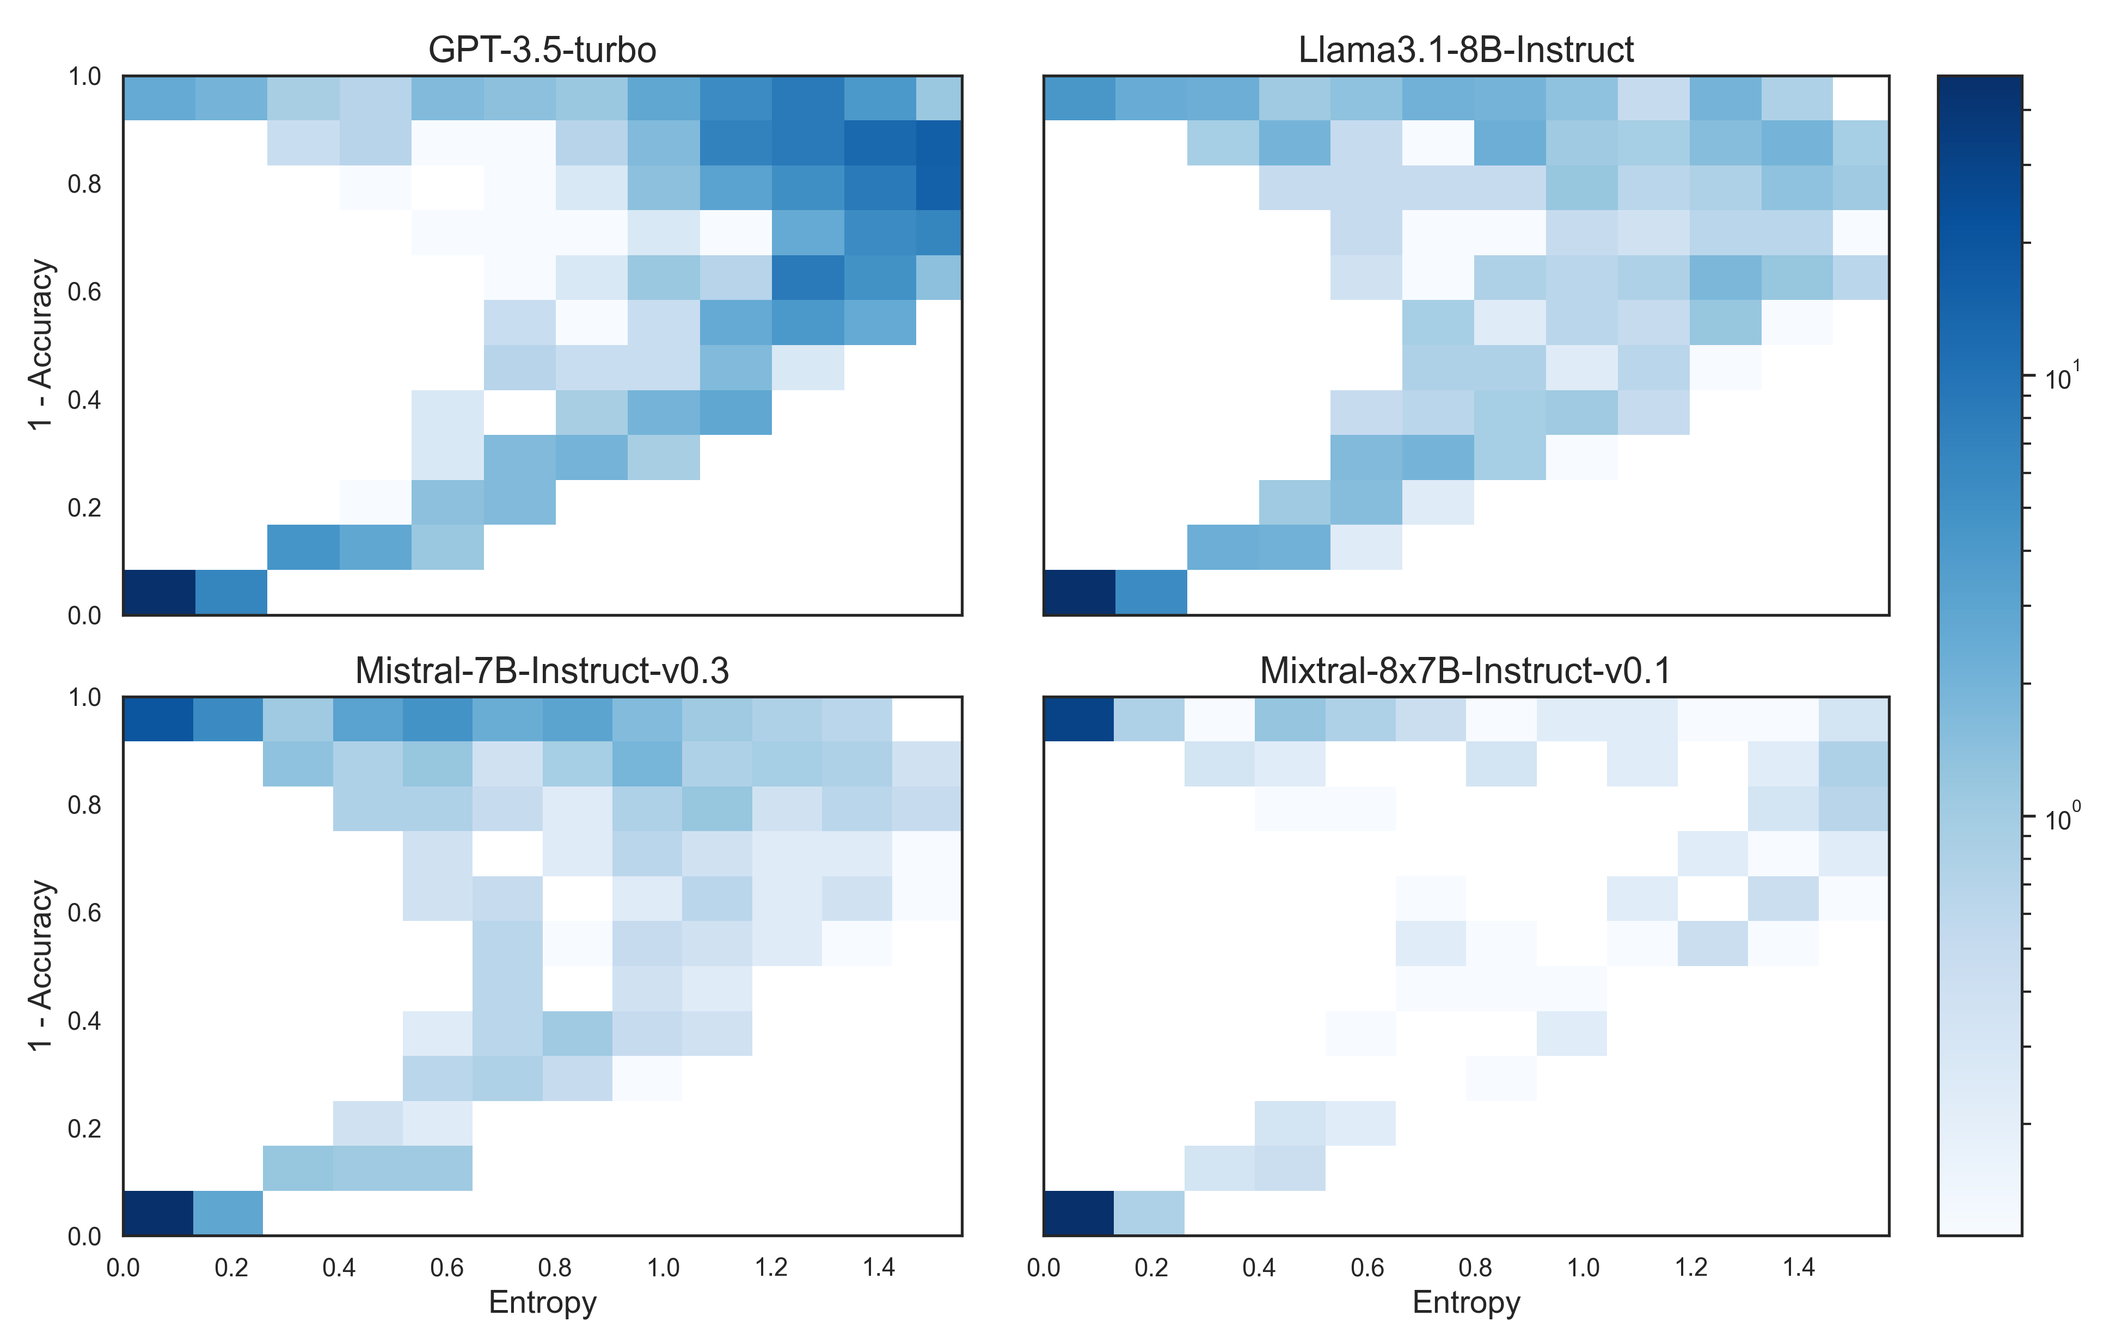
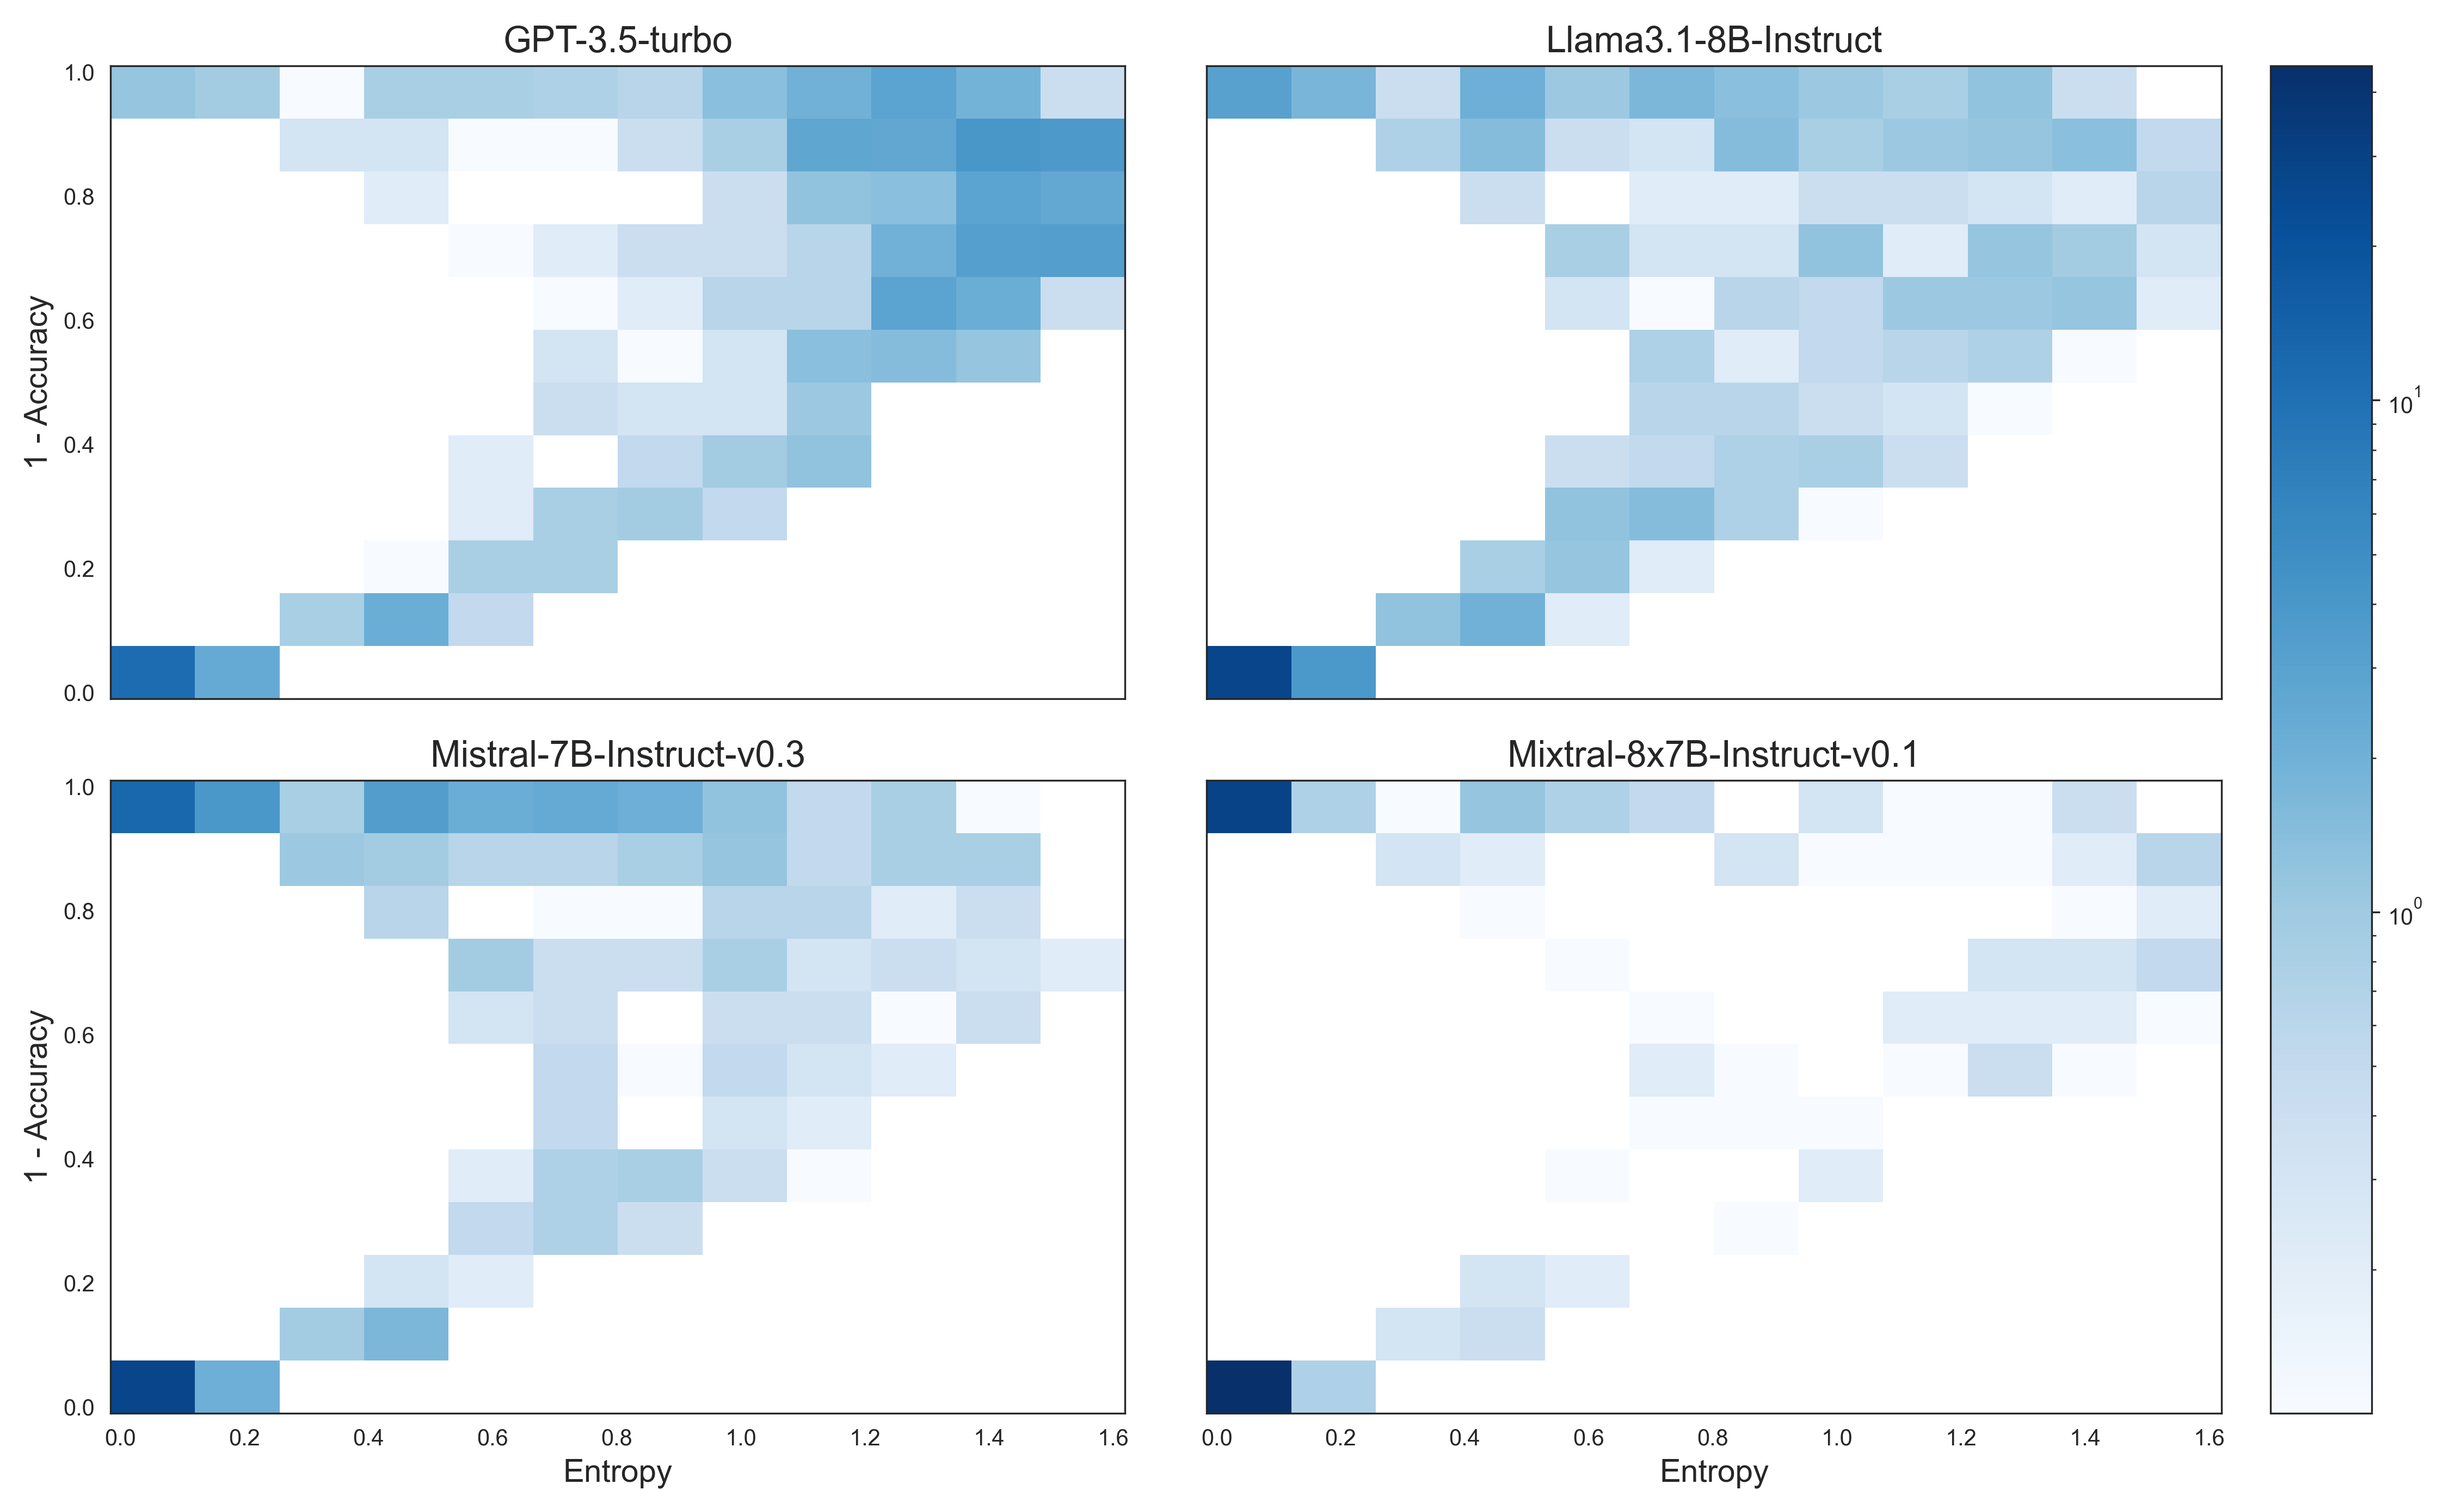
add by category plot

diff --git a/README.md b/README.md
@@ -148,7 +148,7 @@ for i, (df, title, x_label, y_label) in enumerate(zip(dataframes, titles, x_labe
     axs[i].set_ylabel(y_label, fontsize=14)
 
 plt.tight_layout()
-plt.savefig('hist__no_grid.png', dpi=300)
+plt.savefig('hist_no_grid.png', dpi=300)
 plt.show()
 
 ```
@@ -160,65 +160,206 @@ from mpl_toolkits.axes_grid1 import ImageGrid
 import seaborn as sns
 import matplotlib.pyplot as plt
 from matplotlib.colors import LogNorm
+import numpy as np
 
-# Sample datasets and titles for demonstration
 datasets = [df_gpt, df_llama, df_mistral, df_mixtral]
 titles = [
-    'GPT-3.5-turbo', 
-    'Llama3.1-8B-Instruct', 
-    'Mistral-7B-Instruct-v0.3', 
-    'Mixtral-8x7B-Instruct-v0.1'
+   'GPT-3.5-turbo', 
+   'Llama3.1-8B-Instruct', 
+   'Mistral-7B-Instruct-v0.3', 
+   'Mixtral-8x7B-Instruct-v0.1'
 ]
 
 sns.set_style('white')
 
-fig = plt.figure(figsize=(15, 15))
+# calculating global min/max across all datasets to have the same xscale bins
+global_x_min = min(df.Entropy.min() for df in datasets)
+global_x_max = max(df.Entropy.max() for df in datasets)
+global_y_min = min(df['1 - Accuracy'].min() for df in datasets)
+global_y_max = max(df['1 - Accuracy'].max() for df in datasets)
+
+
+x_padding = (global_x_max - global_x_min) * 0.01
+y_padding = (global_y_max - global_y_min) * 0.01
+
+# global bin edges
+xedges = np.linspace(global_x_min - x_padding, global_x_max + x_padding, 13)
+yedges = np.linspace(global_y_min - y_padding, global_y_max + y_padding, 13)
+
+
+global_hist_data = []
+for df in datasets:
+   h, _, _ = np.histogram2d(df.Entropy, df['1 - Accuracy'], bins=[xedges, yedges], density=True)
+   global_hist_data.append(h)
+
+global_hist_data = np.concatenate(global_hist_data)
+
+# for uniform color scaling
+vmin = np.nanmin(global_hist_data[global_hist_data > 0])
+vmax = np.nanmax(global_hist_data)
+
+fig = plt.figure(figsize=(15, 9))
 grid = ImageGrid(
-    fig, 111,  
-    nrows_ncols=(2, 2),  
-    axes_pad=0.5,  
-    cbar_mode="single",
-    cbar_location="right",
-    cbar_pad=0.3
+   fig, 111,  
+   nrows_ncols=(2, 2),  
+   axes_pad=0.5,  
+   cbar_mode="single",
+   cbar_location="right",
+   cbar_pad=0.3
 )
 
-
 for i, (df, title) in enumerate(zip(datasets, titles)):
-    h, xedges, yedges, im = grid[i].hist2d(
-        df.Entropy, 
-        df['1 - Accuracy'], 
-        bins=(12, 12), 
-        cmap=plt.cm.Blues,
-        density=True, 
-        norm=LogNorm()
-    )
-    grid[i].set_title(title, fontsize=16)
+   h, _, _, im = grid[i].hist2d(
+       df.Entropy, 
+       df['1 - Accuracy'], 
+       bins=[xedges, yedges],
+       cmap=plt.cm.Blues,
+       density=True, 
+       norm=LogNorm(vmin=vmin, vmax=vmax)
+   )
 
-    #to add counts inside the bins uncomment the following code:
-        # for x in range(len(xedges) - 1):
-        #     for y in range(len(yedges) - 1):
-        #         count = h[x, y]
-        #         if count > 0:  
-        #             grid[i].text(xedges[x] + 0.5 * (xedges[x + 1] - xedges[x]), 
-        #                 yedges[y] + 0.5 * (yedges[y + 1] - yedges[y]), 
-        #                 f'{int(count)}', 
-        #                 ha='center', va='center', fontsize=8, color='black')
-    
-    
-    if i % 2 == 0:  
-        grid[i].set_ylabel('1 - Accuracy', fontsize=14)
-    if i >= 2:  
-        grid[i].set_xlabel('Entropy', fontsize=14)
-    
-    
-fig.colorbar(h[3], cax=grid.cbar_axes[0], orientation='vertical')
+# to add counts inside the bins uncomment the following code:
+#    
+#    counts, _, _ = np.histogram2d(
+#        df.Entropy, 
+#        df['1 - Accuracy'], 
+#        bins=[xedges, yedges]
+#    )
+   
+#    for x in range(len(xedges) - 1):
+#        for y in range(len(yedges) - 1):
+#            count = int(counts[x, y])
+#            if count > 0:  
+#                grid[i].text(
+#                    xedges[x] + 0.5 * (xedges[x + 1] - xedges[x]), 
+#                    yedges[y] + 0.5 * (yedges[y + 1] - yedges[y]), 
+#                    f'{count}', 
+#                    ha='center', va='center', fontsize=8, color='black'
+#                )
+   
+   grid[i].set_title(title, fontsize=16)
 
-plt.savefig('curve_grid.png', dpi=300)
+   if i % 2 == 0:  
+       grid[i].set_ylabel('1 - Accuracy', fontsize=14)
+   if i >= 2:  
+       grid[i].set_xlabel('Entropy', fontsize=14)
+
+fig.colorbar(im, cax=grid.cbar_axes[0], orientation='vertical')
+
+plt.tight_layout()
+plt.savefig('images/curve.png', dpi=300)
+
+```
+<img src="images/curve.png" alt="Curve" style="width: 90vw; height: auto;">
+
+3. To compare how models perform depending on the level of question difficulty, we can examine histograms for different categories:
+
+``` python
+from mpl_toolkits.axes_grid1 import ImageGrid
+import seaborn as sns
+import matplotlib.pyplot as plt
+from matplotlib.colors import LogNorm
+import numpy as np
+
+all_data = []
+for df in [df_gpt, df_llama, df_mistral, df_mixtral]:
+    for category in ['D', 'F', 'C', 'S', 'M']:
+        subset = df[df['Category'] == category]
+        if not subset.empty:
+            all_data.append(subset)
+
+global_x_min = min(df.Entropy.min() for df in all_data)
+global_x_max = max(df.Entropy.max() for df in all_data)
+global_y_min = min(df['1 - Accuracy'].min() for df in all_data)
+global_y_max = max(df['1 - Accuracy'].max() for df in all_data)
+
+
+x_padding = (global_x_max - global_x_min) * 0.01
+y_padding = (global_y_max - global_y_min) * 0.01
+xedges = np.linspace(global_x_min - x_padding, global_x_max + x_padding, 13)
+yedges = np.linspace(global_y_min - y_padding, global_y_max + y_padding, 13)
+
+
+global_hist_data = []
+for df in all_data:
+    h, _, _ = np.histogram2d(df.Entropy, df['1 - Accuracy'], bins=[xedges, yedges], density=True)
+    global_hist_data.append(h)
+
+global_hist_data = np.concatenate(global_hist_data)
+vmin = np.nanmin(global_hist_data[global_hist_data > 0])
+vmax = np.nanmax(global_hist_data)
+
+sns.set_style('white')
+
+fig = plt.figure(figsize=(15, 8))
+grid = ImageGrid(fig, 111,
+               nrows_ncols=(4, 5),
+               axes_pad=0.5,
+               cbar_mode="single",
+               cbar_location="right",
+               cbar_pad=0.3)
+
+
+def plot_hist(ax, df, category, title=None, ylabel=False):
+    subset = df[df['Category'] == category]
+    if not subset.empty:
+        h, _, _, im = ax.hist2d(
+           subset.Entropy,
+           subset['1 - Accuracy'],
+           bins=[xedges, yedges],
+           cmap=plt.cm.Blues,
+           density=True,
+           norm=LogNorm(vmin=vmin, vmax=vmax)
+       )
+       
+    #     counts, _, _ = np.histogram2d(
+    #        subset.Entropy,
+    #        subset['1 - Accuracy'],
+    #        bins=[xedges, yedges]
+    #    )
+       
+    #    for x in range(len(xedges) - 1):
+    #        for y in range(len(yedges) - 1):
+    #            count = int(counts[x, y])
+    #            if count > 0:
+    #                ax.text(
+    #                    xedges[x] + 0.5 * (xedges[x + 1] - xedges[x]),
+    #                    yedges[y] + 0.5 * (yedges[y + 1] - yedges[y]),
+    #                    f'{count}',
+    #                    ha='center', va='center', fontsize=8, color='black'
+    #                )
+
+    if title:
+        ax.set_title(title, fontsize=16)
+    if ylabel:
+        ax.set_ylabel('1 - Accuracy', fontsize=14)
+    return im
+
+
+datasets = [df_gpt, df_llama, df_mistral, df_mixtral]
+categories = ['D', 'F', 'C', 'S', 'M']
+titles = ['GPT-3.5-turbo', 'Llama3.1-8B-Instruct', 'Mistral-7B-Instruct-v0.3', 'Mixtral-8x7B-Instruct-v0.1']
+
+   
+for i, df in enumerate(datasets):
+   for j, cat in enumerate(categories):
+       idx = i * 5 + j
+       ylabel = (j == 0)
+       title = titles[i] if j == 2 else None
+       im = plot_hist(grid[idx], df, cat, title, ylabel)
+
+       if i == 3:  
+           grid[idx].set_xlabel(f'Entropy\n \n {cat}', fontsize=14)
+
+fig.colorbar(im, cax=grid.cbar_axes[0], orientation='vertical')
+
+plt.tight_layout()
+plt.savefig('images/curve_category_names.png', dpi=300)
 
 ```
 
 
-<img src="images/curve.png" alt="Curve" style="width: 90vw; height: auto;">
+<img src="images/curve_category_names.png" alt="Curve" style="width: 90vw; height: auto;">
 
 ## Citation
 We kindly ask that you cite our work if you find it useful in your research:
